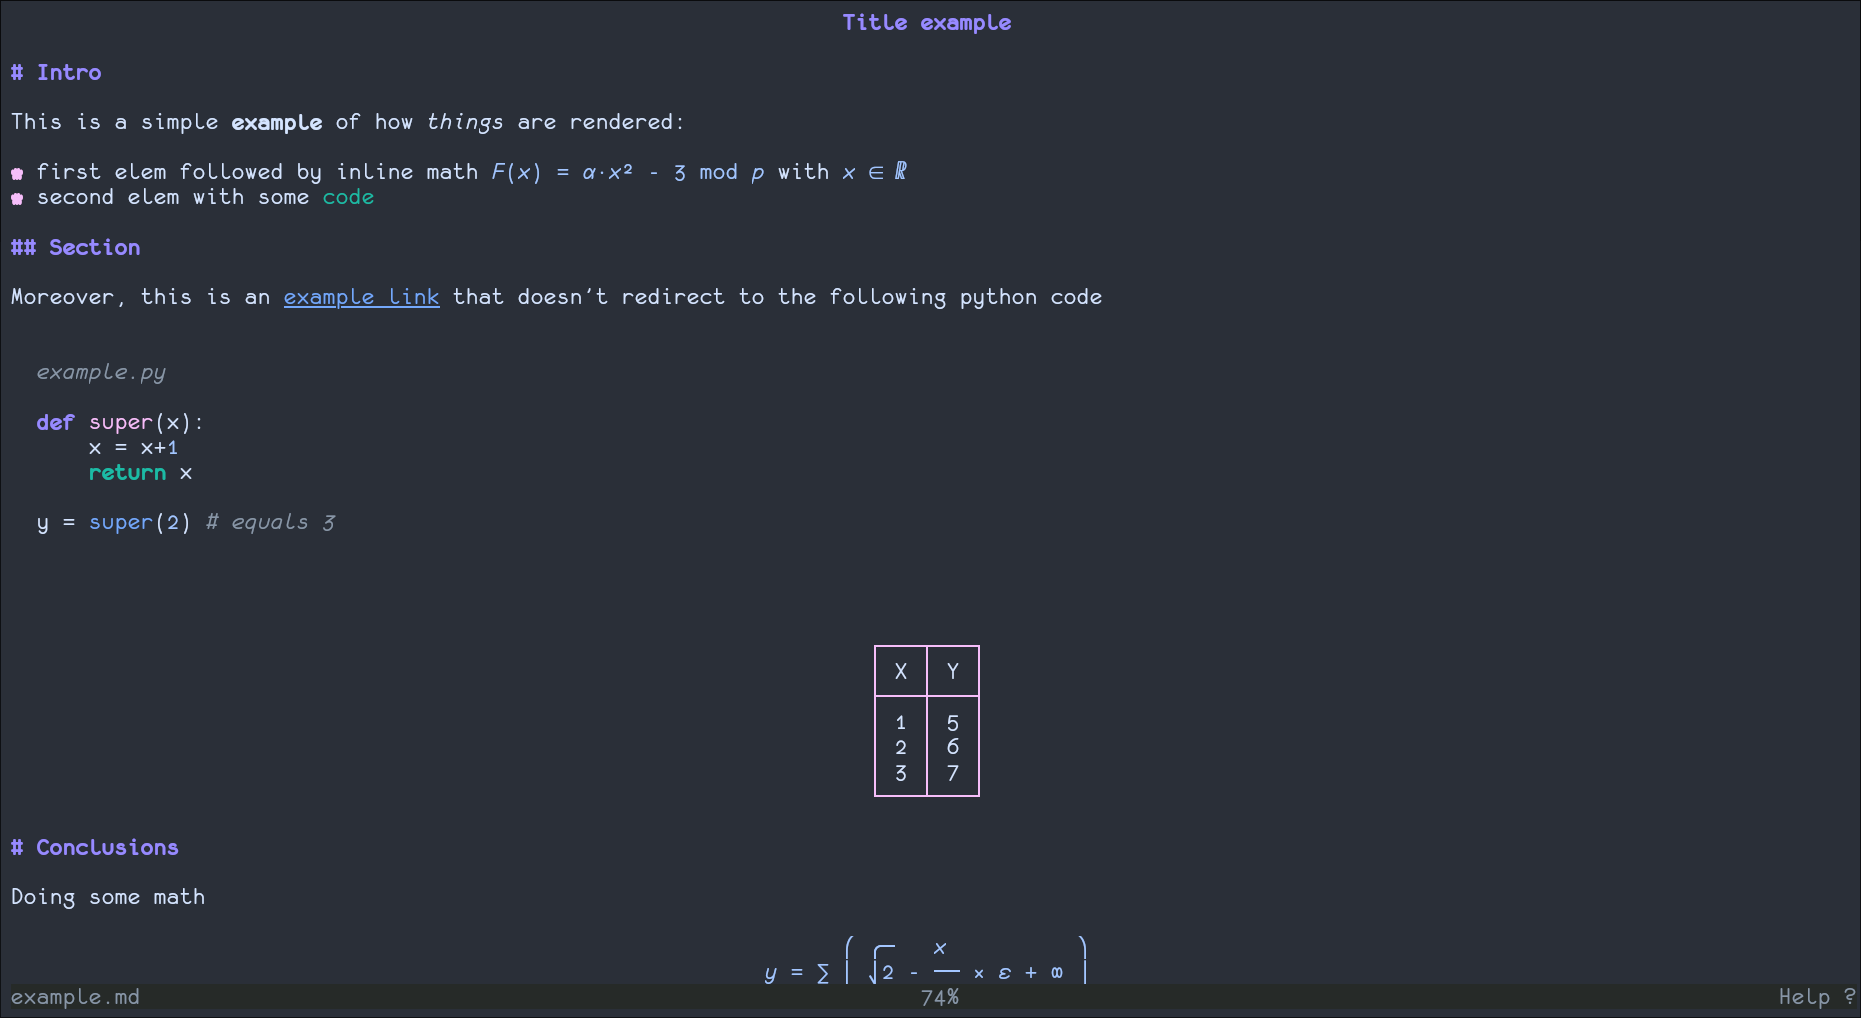
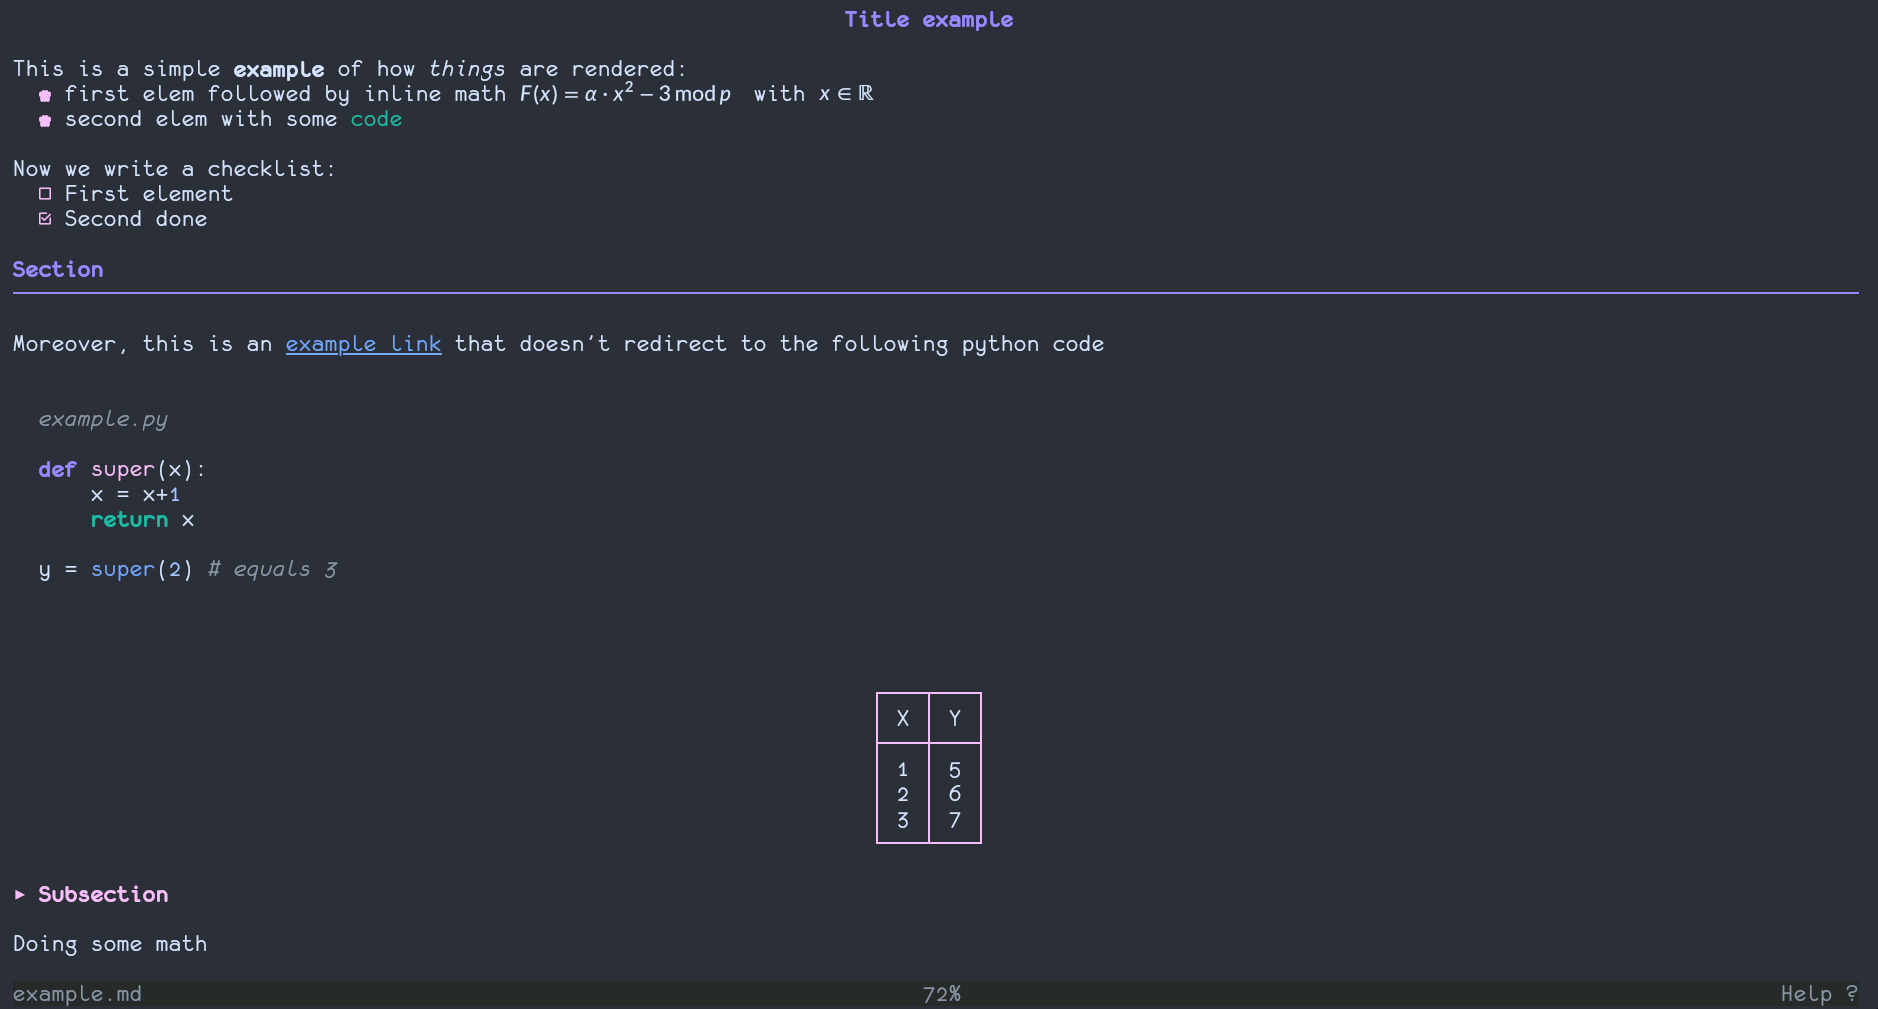
Updated README.md

diff --git a/assets/screenshots/example.md b/assets/screenshots/example.md
@@ -2,11 +2,13 @@
 title: "Title example"
 ---
 
-# Intro
-
 This is a simple **example** of how _things_ are rendered:
 - first elem followed by inline math $F(x) = \alpha \cdot x^2 - 3 \mod p$ with $x \in \mathbb{R}$
 - second elem with some `code`
+
+Now we write a checklist:
+- [ ] First element
+- [x] Second done
 
 ## Section
 
@@ -28,7 +30,7 @@ y = super(2) # equals 3
 | 2 | 6 |
 | 3 | 7 |
 
-# Conclusions
+### Subsection
 
 Doing some math
 $$
